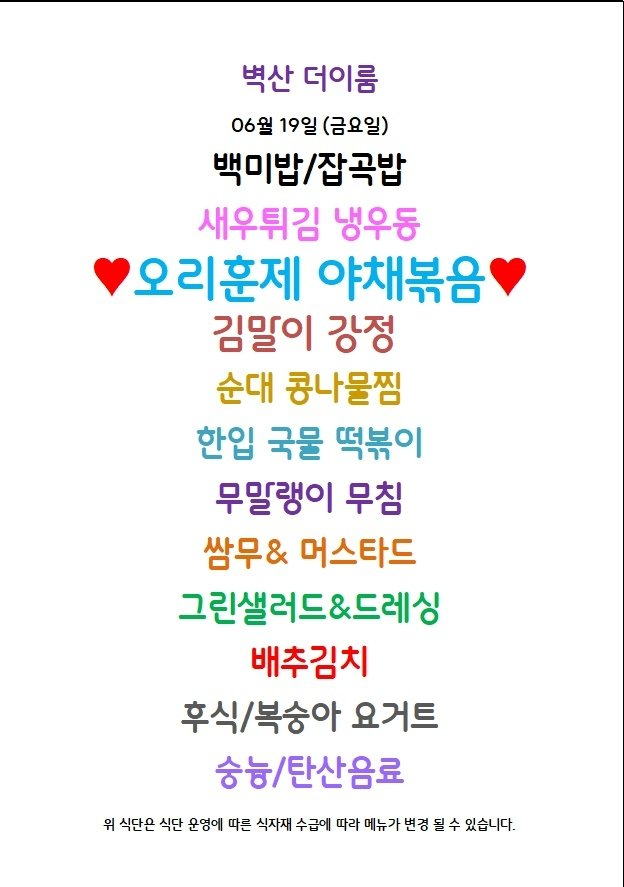
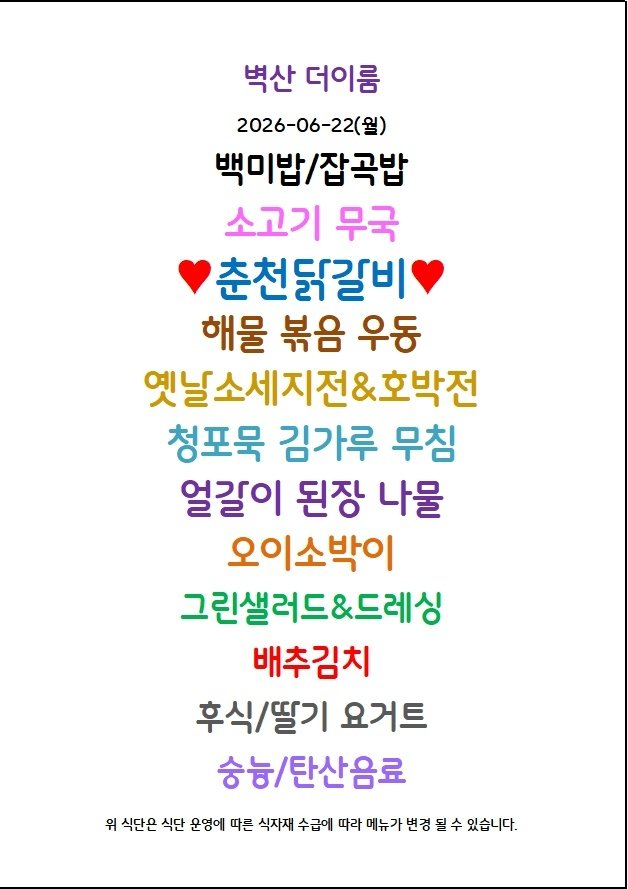
Update menu board assets

Changed region(s): [[0.1522, 0.0609, 0.8526, 0.9436], [0.9744, 0.0, 1.0, 1.0]]

diff --git a/guro-menu/index.html b/guro-menu/index.html
@@ -32,7 +32,7 @@
   </header>
   <section class="meta">
     <div><small>기준 날짜</small><strong>2026년 6월 22일 월요일</strong></div>
-    <div><small>최종 갱신</small><strong>2026-06-22 09:03:38</strong></div>
+    <div><small>최종 갱신</small><strong>2026-06-22 09:13:36</strong></div>
     <div><small>등록 식당</small><strong>5개</strong></div>
   </section>
   <div class="notice">공개 카카오 채널의 메뉴 이미지를 자동 수집하고 OCR로 정리합니다. 텍스트에 오타가 있을 수 있으니 식단 이미지를 함께 확인해 주세요.</div>
@@ -90,7 +90,7 @@
         </div>
         <img class="menu-image" src="./images/byucksan-theirum.png" alt="벽산더이룸 식단 이미지" loading="lazy">
         <p class="message">최신 공개 식단 이미지의 텍스트입니다. 날짜는 원본 이미지를 확인해 주세요.</p>
-        <ul><li>백미밥/잡곡밥</li><li>새우튀김 냉우동</li><li>오리훈제 야채볶음</li><li>김말이 강정</li><li>순대 콩나물찜</li><li>한입 국물 떡볶이</li><li>무말랭이 무침</li><li>쌈무&amp; 머스타드</li><li>그린샐러드&amp;드레싱</li><li>배추김치</li><li>후식/복숭아 요거트</li><li>숭늉/탄산음료</li></ul>
+        <ul><li>2026-06-22(월)</li><li>백미밥/잡곡밥</li><li>소고기 무국</li><li>VEX ele 비</li><li>해물 볶음 우동</li><li>옛닐소세지전&amp;오박선</li><li>청포묵 김가루 무침</li><li>얼길이 된장 나물</li><li>오이소박이</li><li>그린샐러드&amp;드레싱</li><li>배추김치</li><li>FAY/E? 요거트</li><li>숭늉/탄산음료</li></ul>
       </article>
 
       <article class="restaurant-card">

diff --git a/menu-today/index.html b/menu-today/index.html
@@ -209,7 +209,7 @@
 
     <section class="meta-bar">
       <div class="meta-card"><div class="meta-label">기준 날짜</div><div class="meta-value">2026년 6월 22일 월요일</div></div>
-      <div class="meta-card"><div class="meta-label">최종 가져온 시간</div><div class="meta-value">2026-06-22 09:03:23</div></div>
+      <div class="meta-card"><div class="meta-label">최종 가져온 시간</div><div class="meta-value">2026-06-22 09:13:21</div></div>
       <div class="meta-card"><div class="meta-label">확인 완료</div><div class="meta-value">9개 식당</div></div>
       <div class="meta-card"><div class="meta-label">준비중</div><div class="meta-value">3개 채널</div></div>
     </section>
